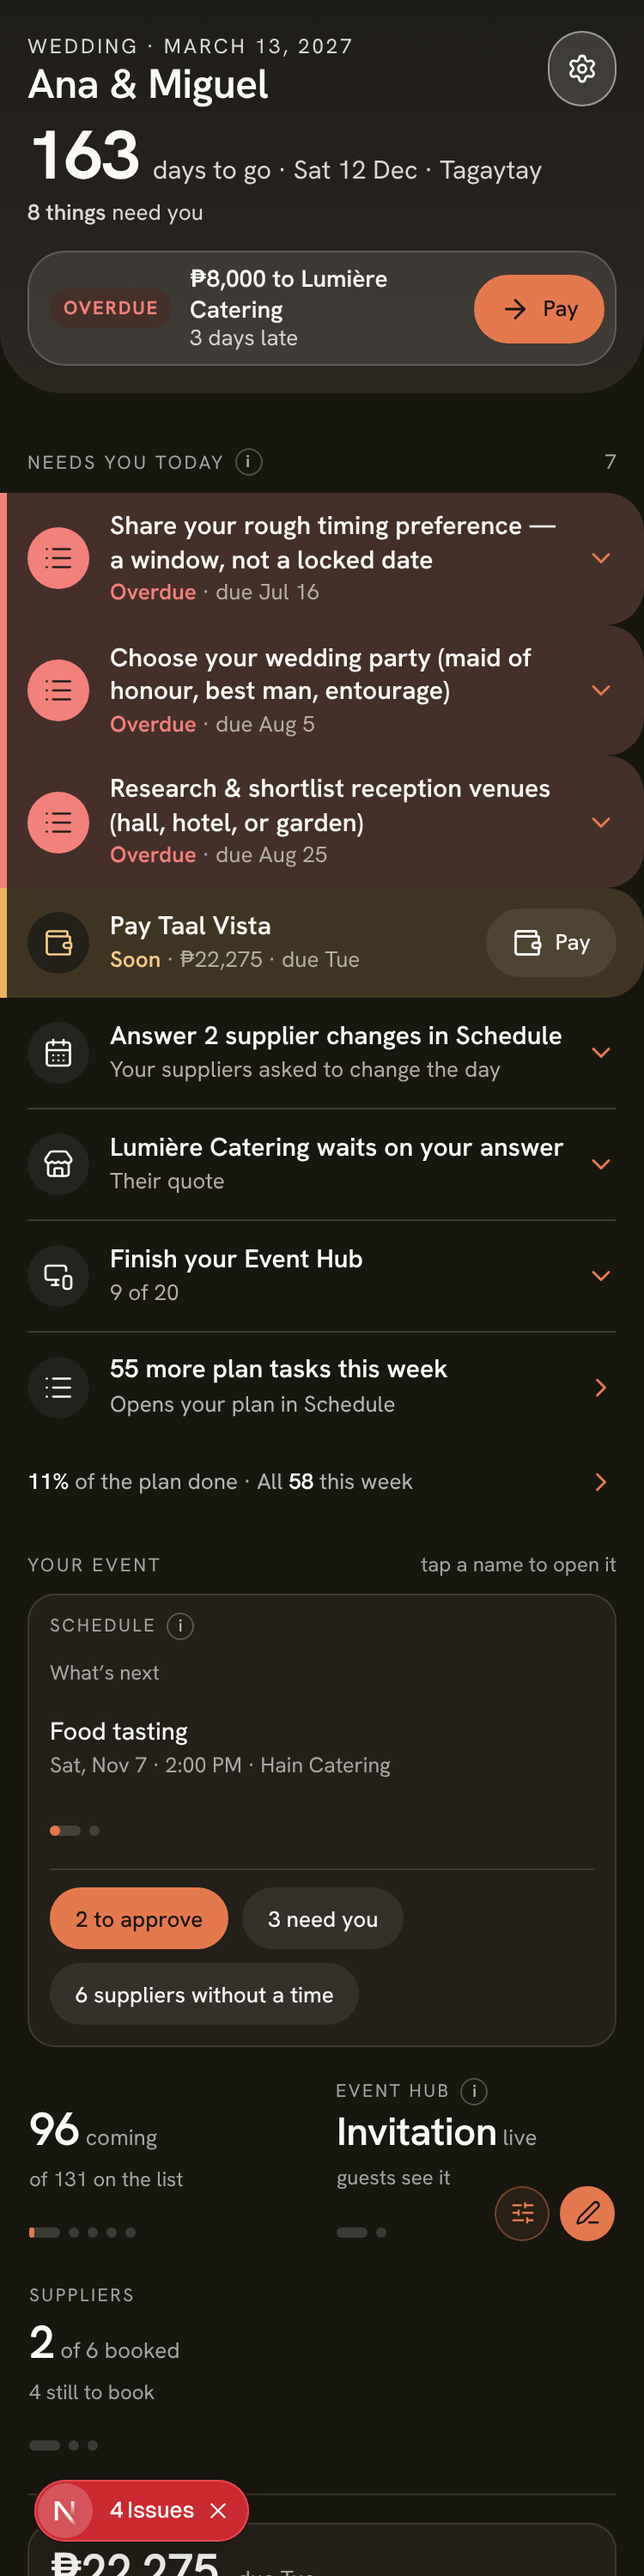
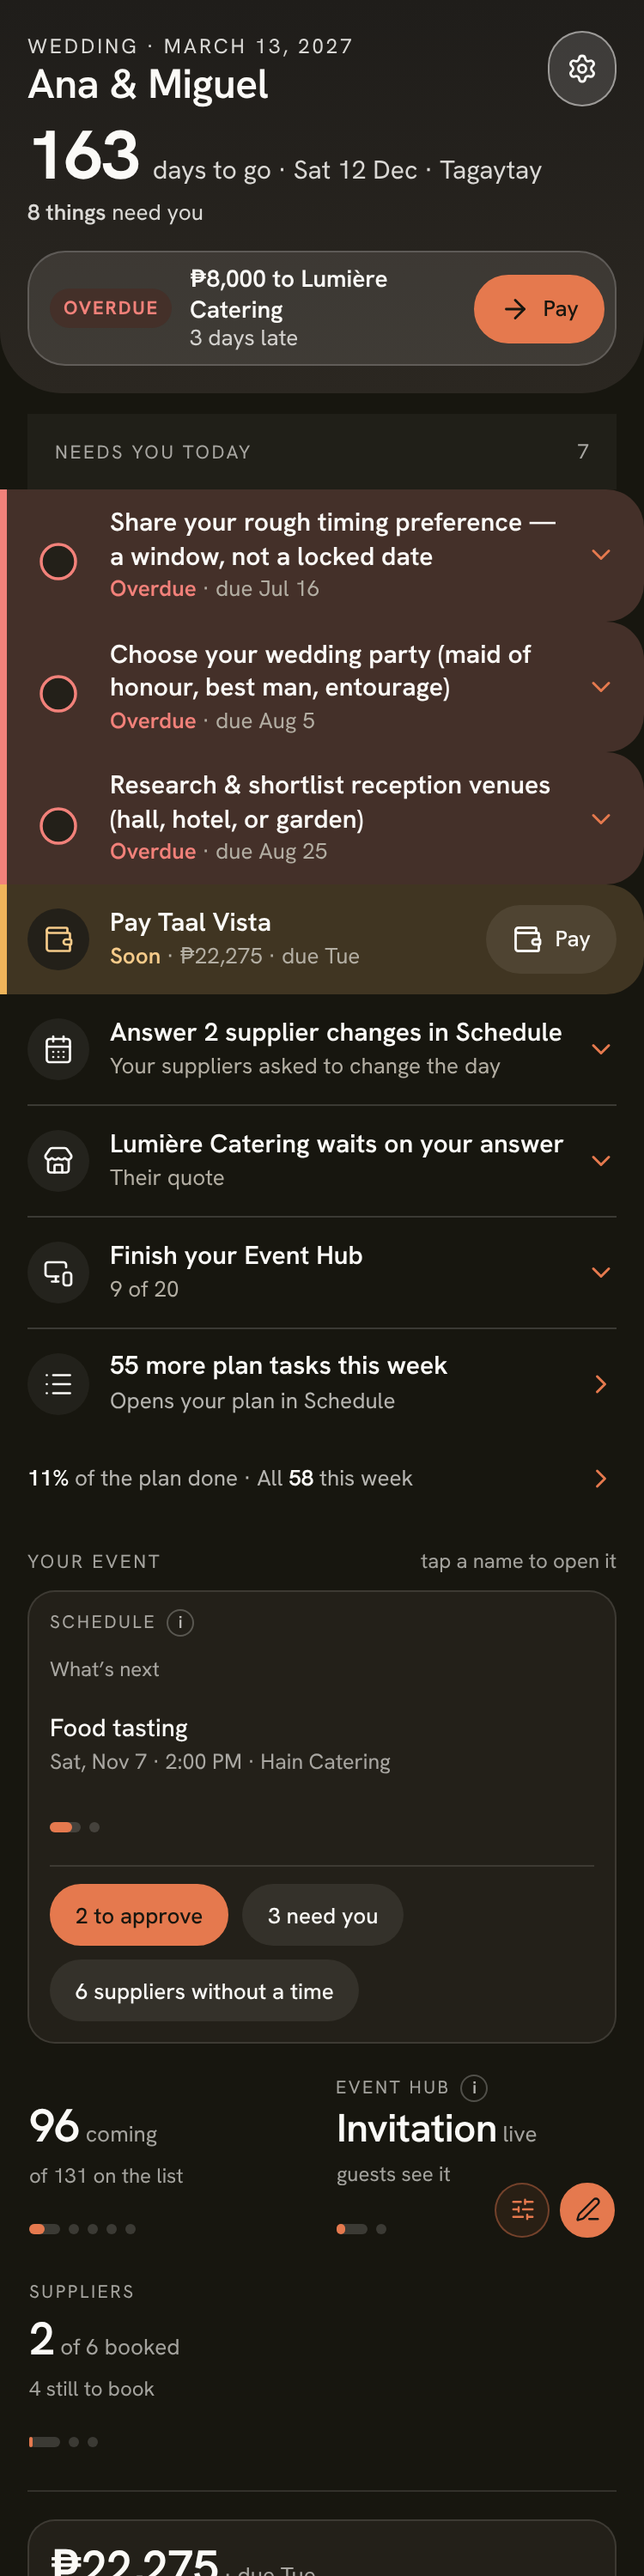
fix(event-today): ship review — drawing pairs, tick ring and heading band as drawn, migration allocated forward
- Migration re-allocated with pnpm migration:new: 20271354816762 → 20271356173915 (main's head moved past it).
- 'Needs you today' heading: the drawing's wash band, no ⓘ (drawing v3 part A has none).
- A plan task's tick inside the list: the drawing's 24 px ring, red on the card fill on a red row (PlanningTick kept).
- Unread row copy: 'Couldn’t load · tap to try again'.
- Home lab: plan tasks carry the Planning Stage tick, as real tasks do.
- build-sessions/shots-event-today-focus/pair-*.png: drawing beside build at 375 light, 375 dark, 1280.

Claude-Session: https://claude.ai/code/session_015BPJzfQisQ89th7SCrm8CY

diff --git a/apps/web/app/globals.css b/apps/web/app/globals.css
@@ -9355,6 +9355,12 @@ html.dark .hc-ecard-plain { background: linear-gradient(180deg, #1f1d1a 0%, #2b2
 .hc-now.hc-today-later { gap: 8px; font-size: 13px; }
 /* The section heading with its quiet note at the right (prototype `.k2`) — `home-k2`'s words, laid out in a row. */
 .hc-k2 { display: flex; align-items: center; gap: var(--sn-label-gap, 6px); font-size: var(--sn-label-size, 11px); font-weight: var(--sn-label-weight, 400); letter-spacing: var(--sn-label-track, 0.12em); text-transform: var(--sn-label-case, uppercase); color: var(--sn-label-ink, color-mix(in srgb, rgb(var(--color-ink)) 62%, transparent)); margin: 6px 0 -4px; }
+/* ☀ EVENT TODAY (drawing v3, part A): the list's heading is a wash band ("Needs you today · N"), and a plan task's
+   tick is the drawing's 24 px ring — red-ringed on the card's own fill on a red row. The tick stays the shipped
+   PlanningTick; only its look inside this list changes. */
+.hc-k2.et-pin { margin: 0; padding: 0 16px; justify-content: space-between; background: color-mix(in srgb, rgb(var(--color-ink)) 4%, transparent); }
+[data-event-today-tick] [data-planning-tick]:not([aria-pressed="true"]) svg { width: 24px; height: 24px; color: color-mix(in srgb, rgb(var(--color-ink)) 55%, transparent); }
+[data-event-today-tick="red"] [data-planning-tick]:not([aria-pressed="true"]) svg { color: rgb(var(--color-danger)); fill: rgb(var(--sn-frame-bg)); }
 /* The label's count: far right and bare by default; a scope can sit it after the title in a pale pill. */
 .hc-k2 em { margin-left: var(--sn-label-count-push, auto); padding: var(--sn-label-count-pad, 0); border-radius: 999px; background: var(--sn-label-count-bg, transparent); color: var(--sn-label-count-ink, inherit); font-weight: var(--sn-label-count-weight, inherit); font-style: normal; text-transform: none; letter-spacing: 0; font-size: var(--sn-label-count-size, 12px); }
 /* 🏷 THE SHEET SECTION LABEL (Switch to · You are in · Today · Earlier · Waiting on this page; `.sn-sheet-k`) and THE SHEET NAME read

diff --git a/apps/web/app/dashboard/[eventId]/_components/home-todo-list.tsx b/apps/web/app/dashboard/[eventId]/_components/home-todo-list.tsx
@@ -4,14 +4,9 @@ import { ExamplePreview } from '@/app/_components/states/empty-state';
 import { SAMPLE_TODO } from '@/lib/empty-look-samples';
 import { ChevronRight, List } from 'lucide-react';
 import { EVENT_MENU_ICONS } from '@/lib/customer-menu';
-import { InfoTip } from '@/app/_components/info-tip';
 import { formatCount } from '@/lib/format-number';
 import { EVENT_TODAY_TASK_ROWS, type EventToday } from '@/lib/event-today';
 import { EventTodayGroup, EventTodayRowItem, EventTodayTomorrow, EventTodayUnreadRow } from './event-today-list';
-
-/** What the list's ⓘ says. */
-export const HOME_TODO_INFO =
-  'What needs you, most urgent first. Tap a row to answer it here. Drag right to open its page, drag left to do it tomorrow. Your whole plan is in Schedule.';
 
 /** How many plan tasks the list shows (round 3: "the three soonest tasks with their tick"). */
 export const HOME_TODO_ROWS = EVENT_TODAY_TASK_ROWS;
@@ -45,10 +40,9 @@ export function HomeTodayList({
   const nothing = today.list.length === 0 && !today.more;
   return (
     <div role="group" aria-label="Needs you today" data-home-todo={planUnread ? 'unread' : ''} data-event-today="" className="flex flex-col">
-      <p className="hc-k2 min-h-11" data-home-todo-head="" data-event-today-head="">
-        <InfoTip label="Needs you today" labelClassName="hc-k2-name" align="start">
-          {HOME_TODO_INFO}
-        </InfoTip>
+      <p className="hc-k2 et-pin min-h-11" data-home-todo-head="" data-event-today-head="">
+        {/* No ⓘ: the drawing's heading is the label and its count, nothing else (v3, part A). */}
+        <span className="hc-k2-name">Needs you today</span>
         {/* Only a real count: nothing waiting draws no "0" (the line under it says so). */}
         {today.listCount > 0 ? <em data-event-today-count="">{formatCount(today.listCount)}</em> : null}
       </p>

diff --git a/apps/web/app/dashboard/[eventId]/event-today-is-focus-shaped.test.ts b/apps/web/app/dashboard/[eventId]/event-today-is-focus-shaped.test.ts
@@ -142,7 +142,7 @@ test('4 · the put-off is written in scope event, per person', () => {
   const read = src('app', 'dashboard', '[eventId]', '_components', 'event-today-asks.tsx');
   assert.match(read, /\.from\('event_today_put_offs'\)\.select\('task_key, until_day'\)\.eq\('event_id', eventId\)\.eq\('user_id', userId\)\.gt\('until_day', todayIso\)/);
   // …and the database says the same: one row per event, person and task; own rows only, on an event they belong to.
-  const sql = readFileSync(join(WEB, '..', '..', 'supabase', 'migrations', '20271354816762_event_today_put_offs.sql'), 'utf8');
+  const sql = readFileSync(join(WEB, '..', '..', 'supabase', 'migrations', '20271356173915_event_today_put_offs.sql'), 'utf8');
   assert.match(sql, /PRIMARY KEY \(event_id, user_id, task_key\)/);
   assert.match(sql, /ENABLE ROW LEVEL SECURITY/);
   assert.equal(count(sql, 'user_id = (SELECT auth.uid()) AND event_id IN (SELECT public.current_event_ids())'), 2, 'the policy is not own-rows-on-my-events for both USING and WITH CHECK');

diff --git a/apps/web/app/dev/home-lab/page.lab.tsx b/apps/web/app/dev/home-lab/page.lab.tsx
@@ -134,7 +134,10 @@ import { labPlanningList } from '../schedule-lab/lab-planning';
 /** The lab's To do tile facts — `planningProgress` over Planning Stage's own fixture list. */
 function labTodoFacts() {
   const p = planningProgress(labPlanningList().items);
-  return { done: p.done, total: p.total, open: p.open, next: p.next, dueThisWeek: p.dueThisWeek };
+  // Real plan tasks carry the Planning Stage tick (`HomeChecklistFacts.next[].tick`); the lab's do too, so Home's list
+  // draws the shipped tick circle as the app does (Event Today drawing v3: "Plan tasks keep the shipped tick circle").
+  const next = p.next.map((t) => ({ ...t, tick: { kind: 'task' as const, id: t.id } }));
+  return { done: p.done, total: p.total, open: p.open, next, dueThisWeek: p.dueThisWeek };
 }
 import { resolveSiteNav } from '@/app/[slug]/_lib/site-nav';
 import { STAGE_BAR } from '@/app/[slug]/_lib/stage-bar';

diff --git a/apps/web/lib/erasure/coverage.ts b/apps/web/lib/erasure/coverage.ts
@@ -1031,7 +1031,7 @@ export const SUBJECT_ROW_DELETES: ReadonlyArray<{
   {
     table: 'event_today_put_offs',
     column: 'user_id',
-    why: '⏭ CASCADE + NOT NULL — one person\u2019s own "Do it tomorrow" on an event\u2019s Today (Event Today, Focus shape, migration 20271354816762). It is about that person\u2019s day and nobody else reads it; it goes with them, and the task stays on every other host\u2019s Today.',
+    why: '⏭ CASCADE + NOT NULL — one person\u2019s own "Do it tomorrow" on an event\u2019s Today (Event Today, Focus shape, migration 20271356173915). It is about that person\u2019s day and nobody else reads it; it goes with them, and the task stays on every other host\u2019s Today.',
   },
   {
     table: 'chat_poll_votes',

diff --git a/apps/web/app/dashboard/[eventId]/_components/event-today-list.tsx b/apps/web/app/dashboard/[eventId]/_components/event-today-list.tsx
@@ -181,7 +181,7 @@ export function EventTodayRowItem({ row, children }: { row: EventTodayRow; child
         <div className="flex min-h-16 items-center gap-3 py-2.5">
           {/* A plan task keeps the shipped tick circle: tap it and the task is done, saved in place. */}
           {tick && g ? (
-            <span className="grid h-9 w-9 shrink-0 place-items-center" data-event-today-tick="">
+            <span className="grid h-9 w-9 shrink-0 place-items-center" data-event-today-tick={red ? 'red' : ''}>
               <PlanningTick eventId={g.eventId} kind={tick.kind} id={tick.id} done={false} title={row.title} />
             </span>
           ) : (

diff --git a/apps/web/lib/personal-data-export.ts b/apps/web/lib/personal-data-export.ts
@@ -896,7 +896,7 @@ export async function buildPersonalDataExport(
       .select('item_key, until_day, put_off_at')
       .eq('user_id', user.id)
       .order('put_off_at', { ascending: true }),
-    // RA 10173 (2026-11-20) — the subject's OWN "Do it tomorrow" on an event's Today (migration 20271354816762).
+    // RA 10173 (2026-11-20) — the subject's OWN "Do it tomorrow" on an event's Today (migration 20271356173915).
     // Owner-scoped on user_id: which event, which Today row, until which day. No other host's record is in it.
     supabase
       .from('event_today_put_offs')

diff --git a/apps/web/lib/event-today.ts b/apps/web/lib/event-today.ts
@@ -152,7 +152,7 @@ const unreadRow = (key: string, title: string, href: string, page: string): Even
   key,
   kind: 'unread',
   title,
-  line: 'not empty — unread · tap to try again',
+  line: 'Couldn’t load · tap to try again',
   urgency: null,
   icon: 'warn',
   href,

diff --git a/changelog.d/claude-event-today-focus.md b/changelog.d/claude-event-today-focus.md
@@ -16,7 +16,7 @@ there is vital or maybe you can make it look better"* · *"Yes, build it"*. Stac
   tomorrow". Drag right opens the page; drag left is "Do it tomorrow"; a red row moves a third and springs back with
   "Urgent · can't go to tomorrow". No delete.
 - **"Do it tomorrow" is per host.** Owner: *"one host may choose to do it tomorrow but the other host hasn't so there
-  is a change that can be done today"*. New record `event_today_put_offs` (migration `20271354816762`, RLS on at
+  is a change that can be done today"*. New record `event_today_put_offs` (migration `20271356173915`, RLS on at
   CREATE TABLE: own rows, on an event the person belongs to), written by the same `todayPutOff` action with
   `scope: 'event'` — still ONE export. Put-off rows sit under "Tomorrow N", out of the count; a red row ignores any
   record and an unread record list holds nothing off.
@@ -29,6 +29,10 @@ there is vital or maybe you can make it look better"* · *"Yes, build it"*. Stac
 - The tablet and 1280 Budget CARDS obey the same rule (`home-control-row.tsx` listed every payment; only the tile
   filtered) — held by `home-now-never-repeats-below.test.ts` test 1. In dark, the plain event card now wears the dark
   theme's ink (it kept the light band's espresso on its dark ground — unreadable, also on main).
+- Ship review (FIX-FIRST) answered: the list heading is the drawing's wash band with no ⓘ; a plan task's tick is the
+  drawing's 24 px ring, red-ringed on the card fill on a red row (the shipped `PlanningTick`, restyled only inside the
+  list); the unread row says "Couldn’t load · tap to try again"; the migration is re-allocated forward
+  (`pnpm migration:new`).
 - After the plan's three tasks, ONE row "N more plan tasks this week ›" (the plan's own figure less what is on
   screen), then the kept line "N% of the plan done · All N this week ›".
 - The open "Send the invitations" card names who has not been sent theirs (`toInviteNames` in

diff --git a/build-sessions/shots-event-today-focus/README.md b/build-sessions/shots-event-today-focus/README.md
@@ -8,7 +8,8 @@ cloud container has no Supabase credentials, so no signed-in page could be drawn
 |---|---|
 | `375-light.png` / `375-dark.png` | the card, "Needs you today", the kept sections |
 | `375-light-open.png` / `375-dark-open.png` | a normal row tapped open: its answer, "Open in Event Hub ›", "Do it tomorrow" |
+| `pair-375-light.png` · `pair-375-dark.png` · `pair-1280-light.png` | **the drawing v3 (left) beside the build (right)** — ship-review check 9 |
 | `1280-light.png` | the three-column board: the list in the left column under the card; Budget leaves out the strip's payment |
 
-The lab's plan tasks carry no tick (`labTodoFacts`), so they show the list icon; real plan tasks wear `PlanningTick`
-(`home-now-never-repeats-below.test.ts` test 3 renders it). "3 Issues" is Next's dev overlay.
+The lab's plan tasks now carry the Planning Stage tick, as real tasks do. The Next dev overlay ("3 Issues") is hidden in
+the pairs; where it shows in an older shot it is `next dev` only, never in a build.
